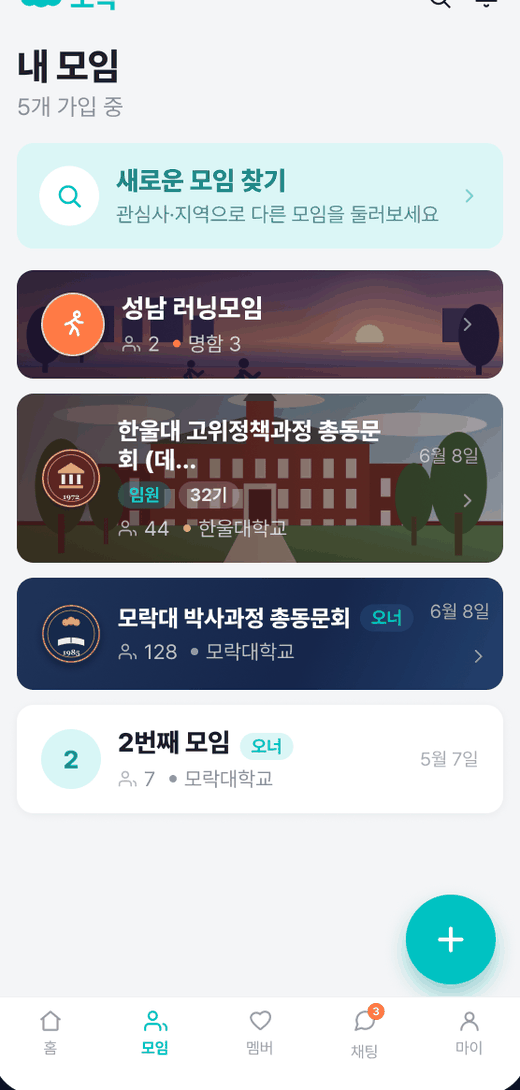
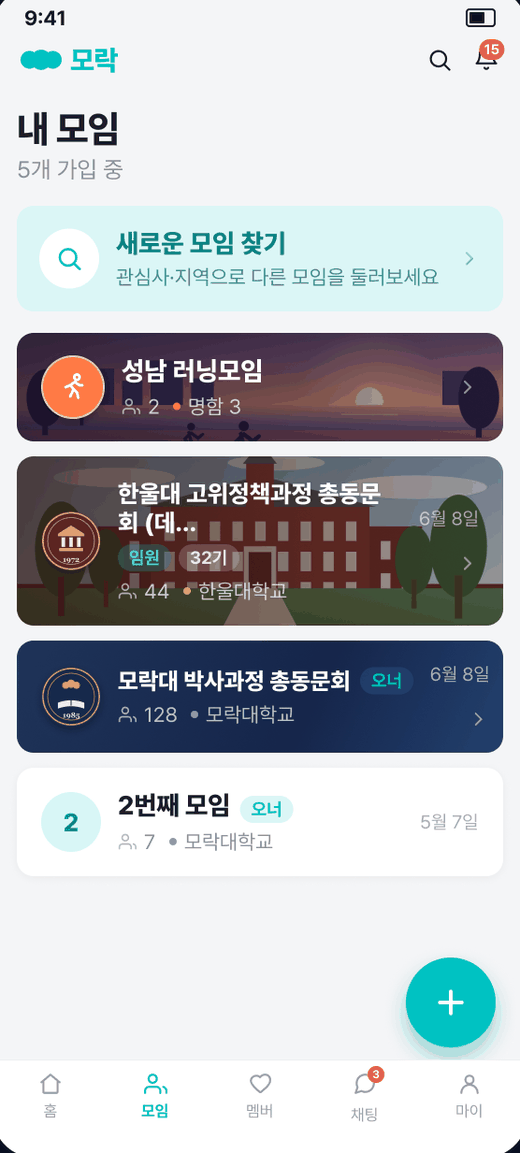
fix: 모락 폰 목업을 아이폰 스타일로 재작업 — 화면 전체 보존(상태바 포함), 얇은 균일 베젤 + 다이내믹 아일랜드

diff --git a/index.html b/index.html
@@ -239,29 +239,31 @@
     /* 모락 폰 프레임 (토스 스타일 목업) */
     .phone-frame {
       position: relative;
-      border-radius: 2.6rem;
-      background: #0b1220;
-      padding: 28px 12px 20px;
-      box-shadow: 0 30px 60px -15px rgba(2, 6, 23, 0.35), inset 0 0 0 2px rgba(255, 255, 255, 0.05);
+      border-radius: 3rem;
+      background: #0b0f1a;
+      padding: 11px;
+      box-shadow: 0 30px 60px -15px rgba(2, 6, 23, 0.4), inset 0 0 0 2px rgba(255, 255, 255, 0.08);
     }
 
+    /* 다이내믹 아일랜드 */
     .phone-frame::before {
       content: '';
       position: absolute;
-      top: 12px;
+      top: 20px;
       left: 50%;
       transform: translateX(-50%);
-      width: 26%;
-      height: 6px;
-      background: #263243;
+      width: 30%;
+      height: 20px;
+      background: #0b0f1a;
       border-radius: 999px;
+      z-index: 2;
     }
 
     .phone-frame img {
       display: block;
       width: 100%;
       height: auto;
-      border-radius: 1.6rem;
+      border-radius: 2.3rem;
     }
 
     /* 모락 오빗 비주얼 */
@@ -1532,10 +1534,10 @@
           </div>
           <div class="relative z-10 flex items-center">
             <div class="phone-frame w-[160px] md:w-[210px] -rotate-6 translate-x-5 md:translate-x-8">
-              <img width="520" height="1090" src="img/morak-screen-home.png" alt="모락 홈 대시보드 — 주간 하이라이트와 통합 캘린더" loading="lazy">
+              <img width="520" height="1153" src="img/morak-screen-home.png" alt="모락 홈 대시보드 — 주간 하이라이트와 통합 캘린더" loading="lazy">
             </div>
             <div class="phone-frame w-[180px] md:w-[240px] rotate-3 -translate-x-4 z-10">
-              <img width="520" height="1090" src="img/morak-screen-groups.png" alt="모락 내 모임 — 커버·기수 뱃지·다가오는 일정" loading="lazy">
+              <img width="520" height="1153" src="img/morak-screen-groups.png" alt="모락 내 모임 — 커버·기수 뱃지·다가오는 일정" loading="lazy">
             </div>
           </div>
         </div>
@@ -1547,7 +1549,7 @@
         <div class="animate-on-scroll grid grid-cols-1 md:grid-cols-2 gap-12 md:gap-16 items-center">
           <div class="flex justify-center">
             <div class="phone-frame w-[250px] md:w-[300px] animate-float">
-              <img width="520" height="1090" src="img/morak-screen-groups.png" alt="모락 내 모임 화면 — 커버 카드, 역할·기수 뱃지, 다가오는 일정" loading="lazy">
+              <img width="520" height="1153" src="img/morak-screen-groups.png" alt="모락 내 모임 화면 — 커버 카드, 역할·기수 뱃지, 다가오는 일정" loading="lazy">
             </div>
           </div>
           <div class="text-center md:text-left">
@@ -1562,7 +1564,7 @@
         <div class="animate-on-scroll grid grid-cols-1 md:grid-cols-2 gap-12 md:gap-16 items-center">
           <div class="flex justify-center md:order-2">
             <div class="phone-frame w-[250px] md:w-[300px] animate-float" style="animation-delay:-2s;">
-              <img width="520" height="1032" src="img/morak-screen-space.png" alt="모락 모임 공간 화면 — 멤버·일정·검색·관리와 통계" loading="lazy">
+              <img width="520" height="1090" src="img/morak-screen-space.png" alt="모락 모임 공간 화면 — 멤버·일정·검색·관리와 통계" loading="lazy">
             </div>
           </div>
           <div class="text-center md:text-left md:order-1">
@@ -1577,7 +1579,7 @@
         <div class="animate-on-scroll grid grid-cols-1 md:grid-cols-2 gap-12 md:gap-16 items-center">
           <div class="flex justify-center">
             <div class="phone-frame w-[250px] md:w-[300px] animate-float" style="animation-delay:-4s;">
-              <img width="520" height="1090" src="img/morak-screen-members.png" alt="모락 멤버 관리 화면 — 명함 저장과 연락처 내보내기" loading="lazy">
+              <img width="520" height="1153" src="img/morak-screen-members.png" alt="모락 멤버 관리 화면 — 명함 저장과 연락처 내보내기" loading="lazy">
             </div>
           </div>
           <div class="text-center md:text-left">
@@ -1592,7 +1594,7 @@
         <div class="animate-on-scroll grid grid-cols-1 md:grid-cols-2 gap-12 md:gap-16 items-center">
           <div class="flex justify-center md:order-2">
             <div class="phone-frame w-[250px] md:w-[300px] animate-float" style="animation-delay:-3s;">
-              <img width="520" height="1090" src="img/morak-screen-chat.png" alt="모락 채팅 화면 — 기수·직책 뱃지가 보이는 대화 목록" loading="lazy">
+              <img width="520" height="1153" src="img/morak-screen-chat.png" alt="모락 채팅 화면 — 기수·직책 뱃지가 보이는 대화 목록" loading="lazy">
             </div>
           </div>
           <div class="text-center md:text-left md:order-1">
